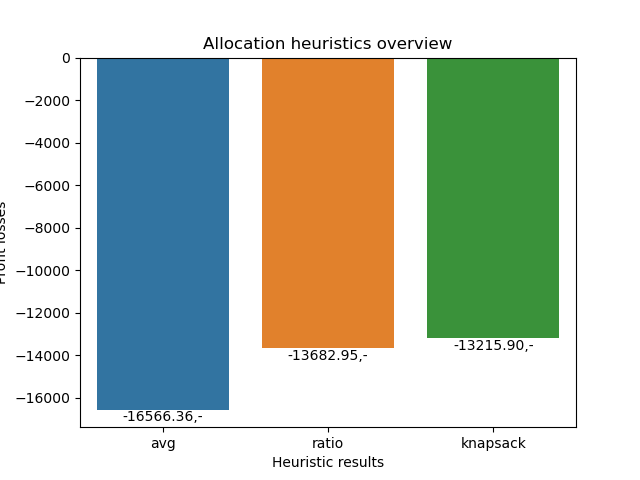
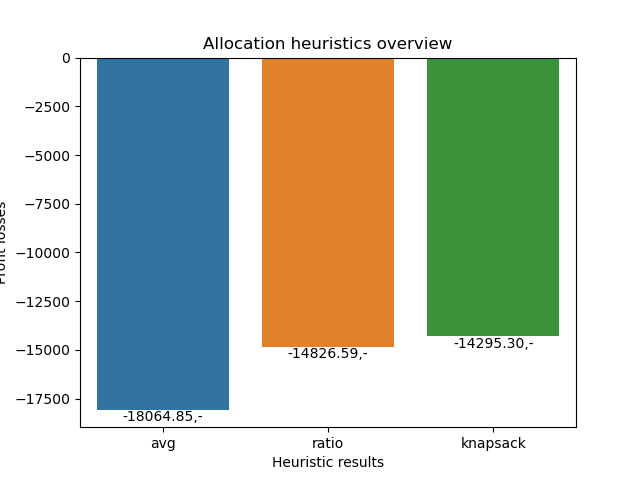
removed math.sqrt in base stock computation

diff --git a/final/belsimpel.py b/final/belsimpel.py
@@ -232,20 +232,22 @@ top_20_z_score = 0.90
 
 df_stock = df_products[["product_id", "average_daily_demand", "std_average_daily_demand", "product_volume_cm3", "product_class"]]
 # use assign in order to avoid SettingWithCopyWarning warning: https://www.machinelearningplus.com/pandas/pandas-add-column/ 
+# compute average demand based on the replenishment interval using Tμ
 df_stock = df_stock.assign(avg_daily_demand_repln_intv=replenishment_interval * df_stock["average_daily_demand"])
+# compute average std based on the replenishment interval using √Tσ
 df_stock = df_stock.assign(avg_std_daily_demand_repln_intv=np.sqrt(replenishment_interval * df_stock["std_average_daily_demand"]))
 
-# compute the base stock per product class 
+# compute the base stock per product class based on the μ+zσ rule 
 def compute_base_stock(index):
     product_class = df_stock.at[index, "product_class"]
     avg_daily_demand_repln_intv = df_stock.at[index, "avg_daily_demand_repln_intv"]
     avg_std_daily_demand_repln_intv = df_stock.at[index, "avg_std_daily_demand_repln_intv"]
     if product_class == "50%":
-        df_stock.at[index, "base_stock"] = avg_daily_demand_repln_intv + (low_50_z_score * math.sqrt(avg_std_daily_demand_repln_intv))
+        df_stock.at[index, "base_stock"] = avg_daily_demand_repln_intv + (low_50_z_score * avg_std_daily_demand_repln_intv)
     elif product_class == "80%":
-        df_stock.at[index, "base_stock"] = avg_daily_demand_repln_intv + (mid_30_z_score * math.sqrt(avg_std_daily_demand_repln_intv))
+        df_stock.at[index, "base_stock"] = avg_daily_demand_repln_intv + (mid_30_z_score * avg_std_daily_demand_repln_intv)
     elif product_class == "100%":
-        df_stock.at[index, "base_stock"] = avg_daily_demand_repln_intv + (top_20_z_score * math.sqrt(avg_std_daily_demand_repln_intv))
+        df_stock.at[index, "base_stock"] = avg_daily_demand_repln_intv + (top_20_z_score * avg_std_daily_demand_repln_intv)
 
 [compute_base_stock(index) for index in df_stock.index]
 
